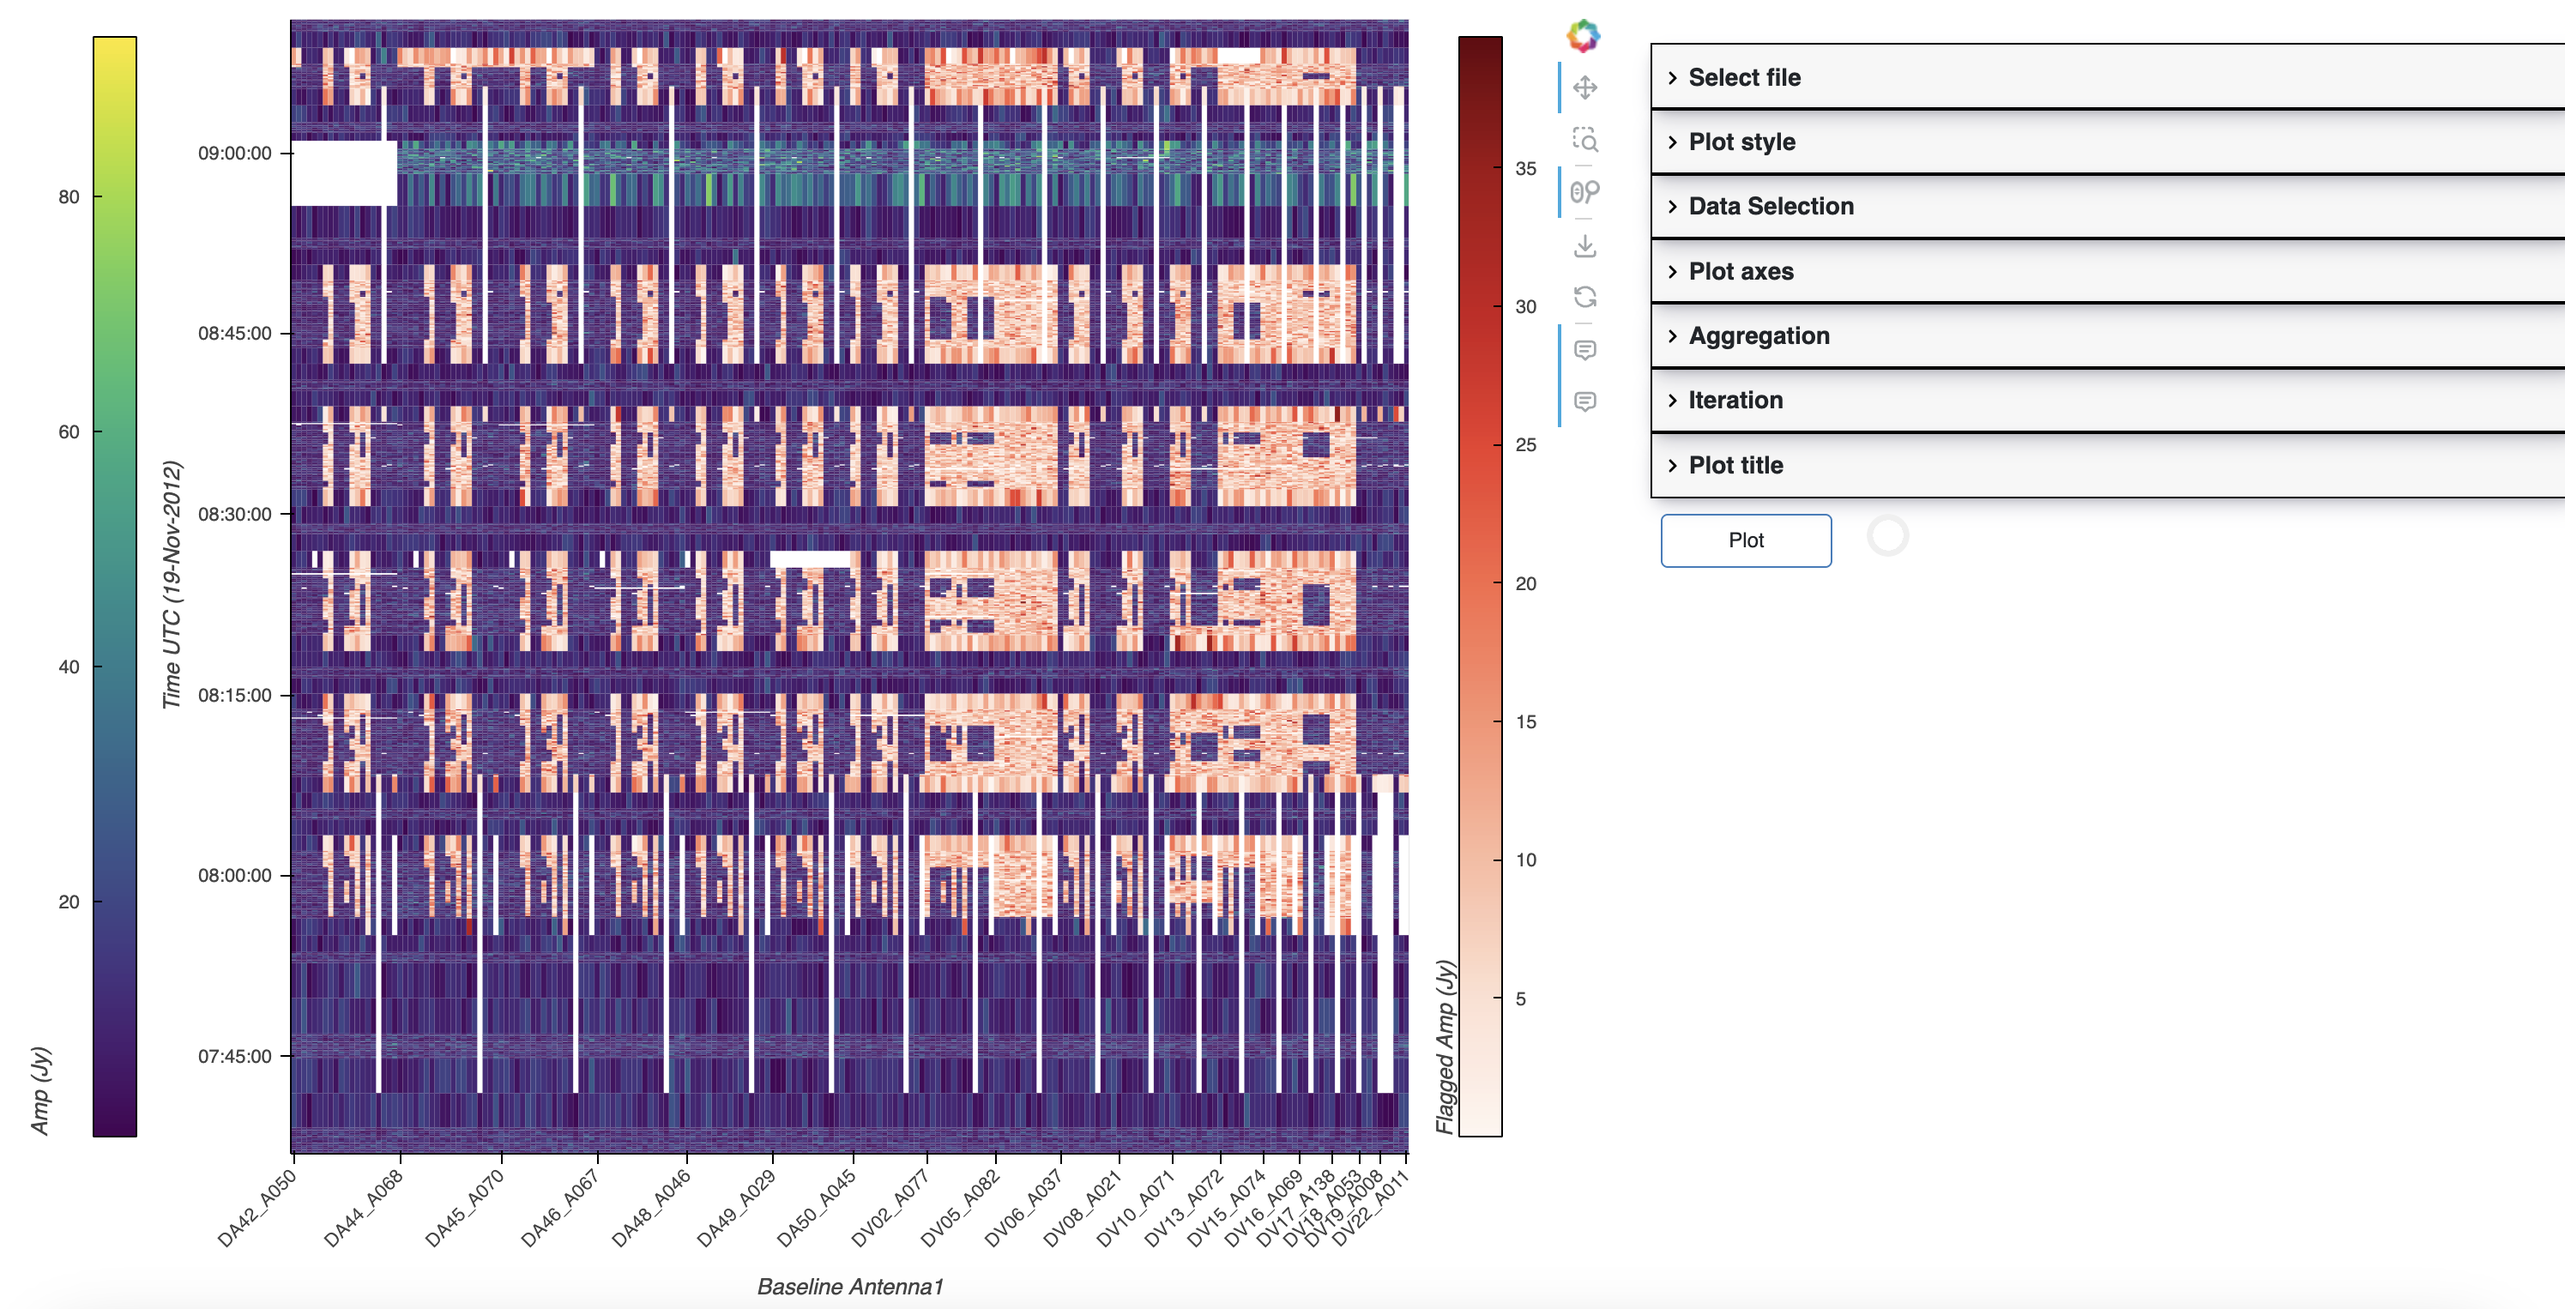
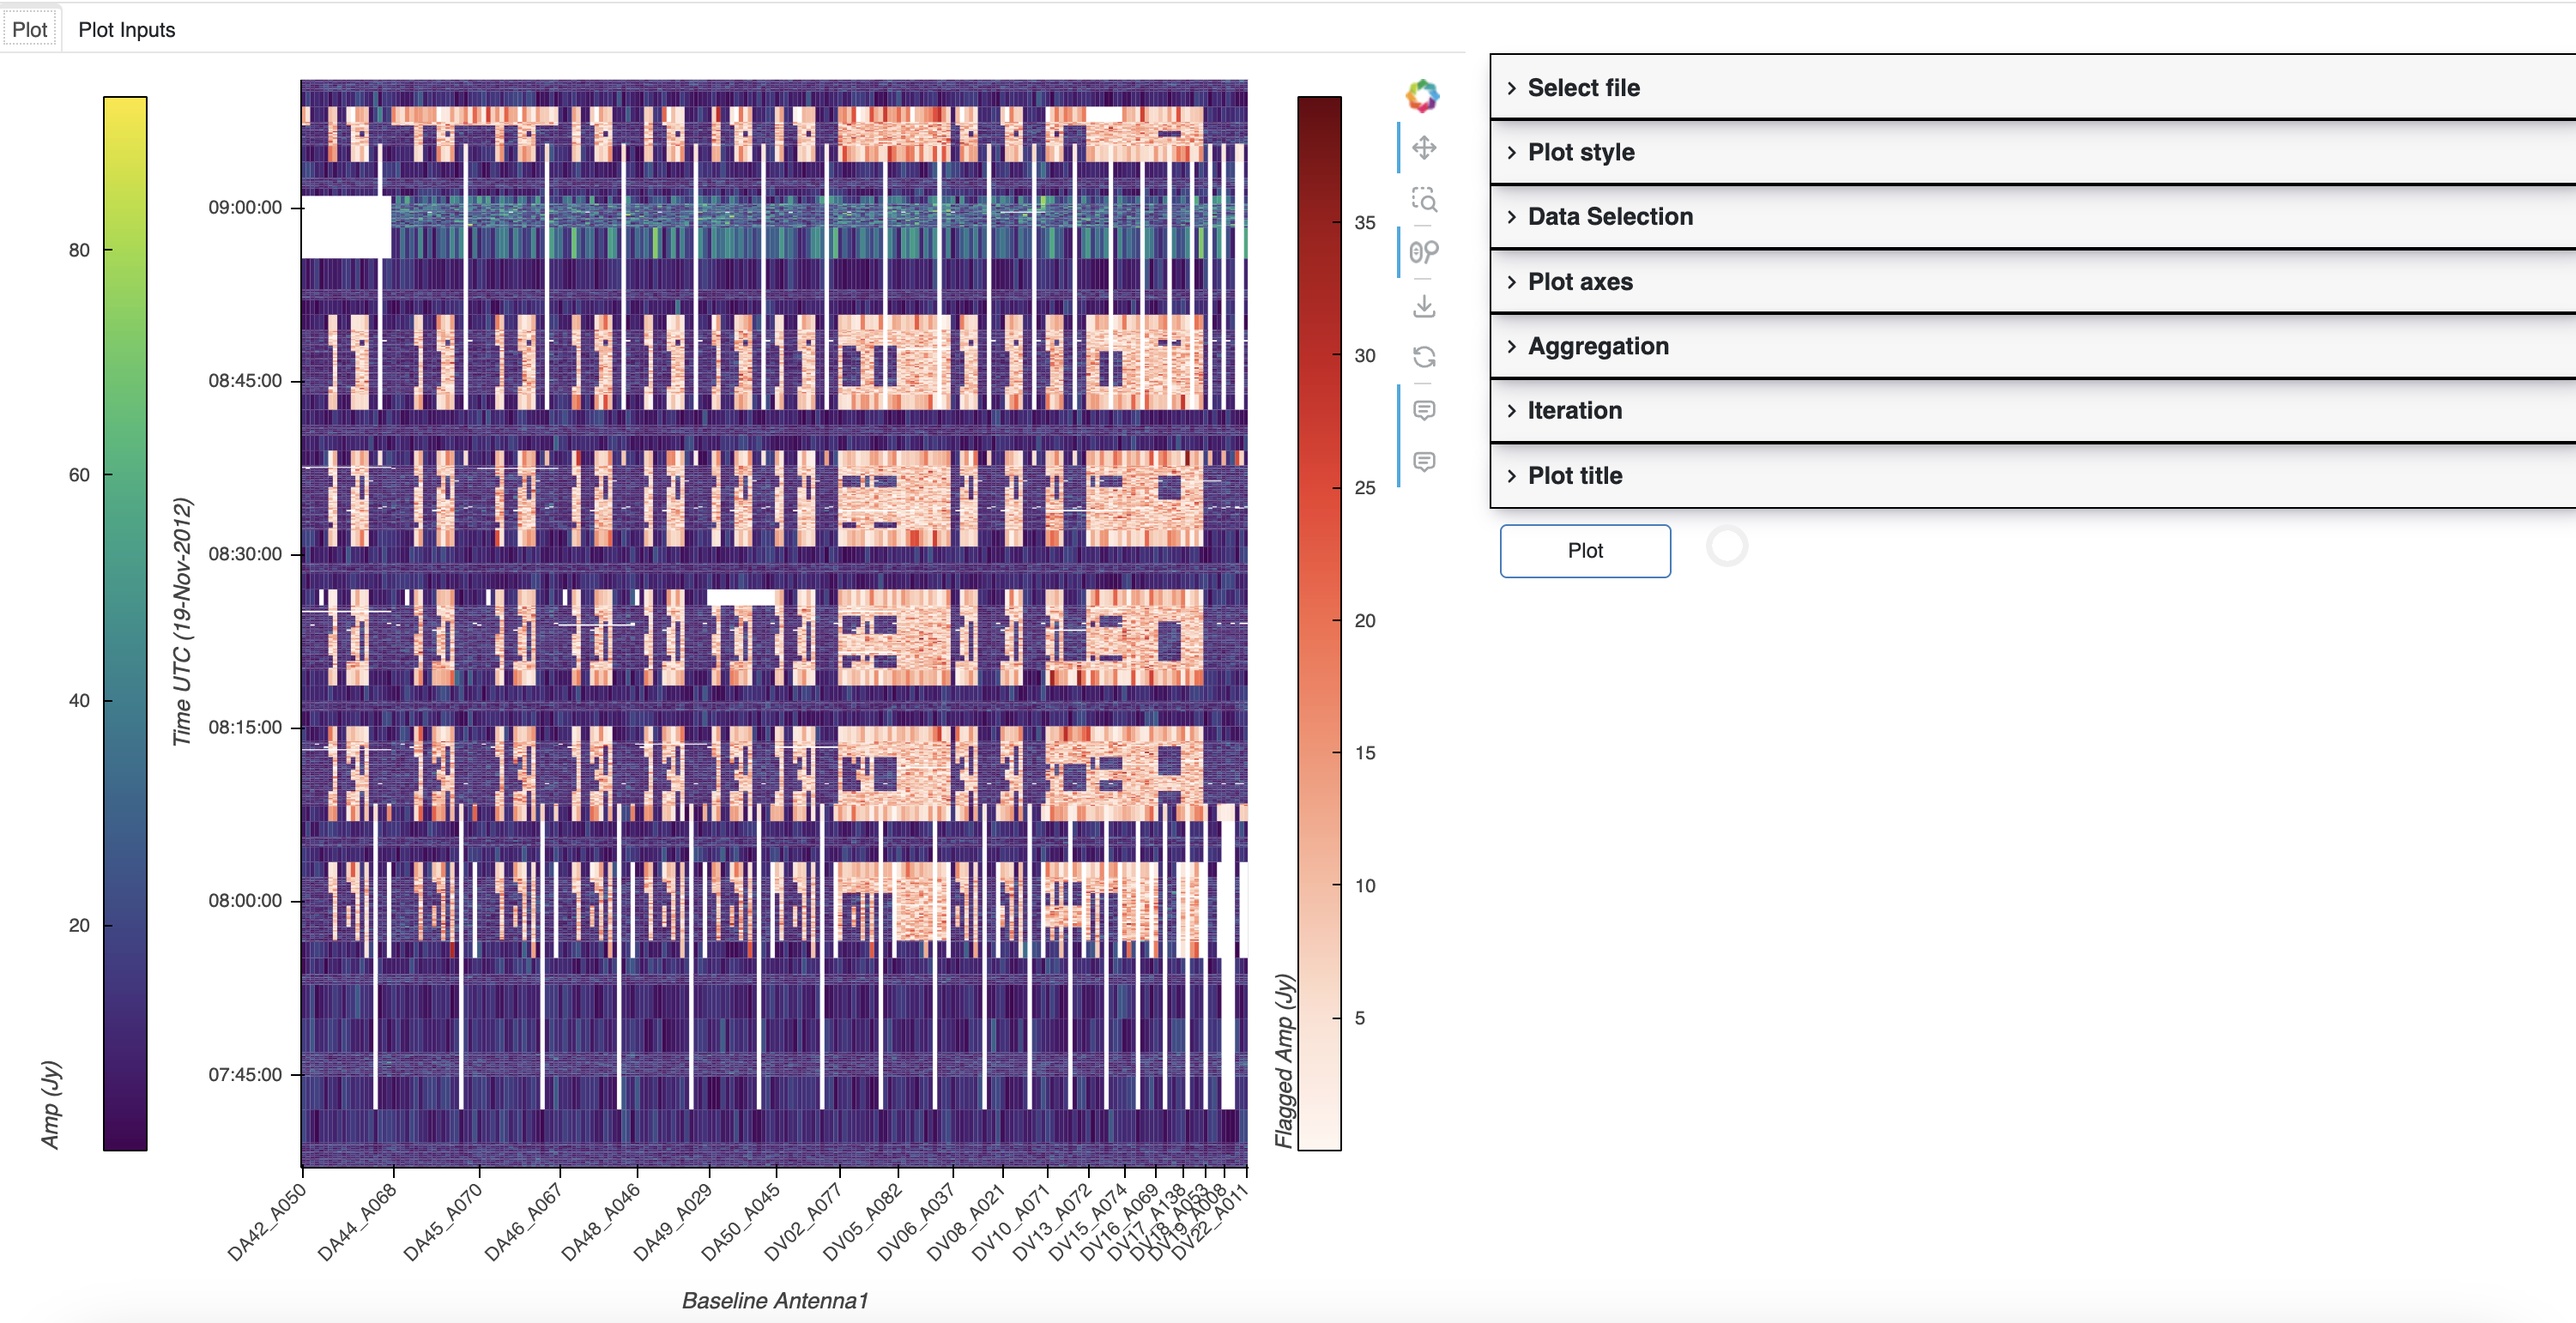
Update docs with plot inputs shown with plot

diff --git a/docs/source/applications/ms_raster.rst b/docs/source/applications/ms_raster.rst
@@ -479,7 +479,7 @@ active by default, contains the plot:
 .. image:: _static/show_plot.png
 
 The second tab shows the plot inputs (including automatic selections) used to
-make the raster plot:
+make the raster plot, sorted alphabetically:
 
 .. image:: _static/show_plot_inputs.png
 
@@ -551,7 +551,8 @@ required.
     >>> msr = MsRaster(ms=None, log_level='info', show_gui=True)
 
 The GUI will immediately launch in a browser tab.  If ``ms`` is set, a plot with
-default parameters is created and shown in the GUI.
+default parameters is created and shown in the GUI. As with ``show()``, the plot
+is shown in a tab, with the inputs for the plot shown in the second tab:
 
 .. image:: _static/msraster_gui.png
 
@@ -586,4 +587,4 @@ inputs change. Click ``Plot`` to render the plot.
 
 .. note::
    The only way to create multiple plots in the GUI is by iteration. Iterated
-   plots in a layout will be shown in a Bokeh plot in a **new browser tab**.
+   plots **in a layout** will be shown in a **new browser tab**.
